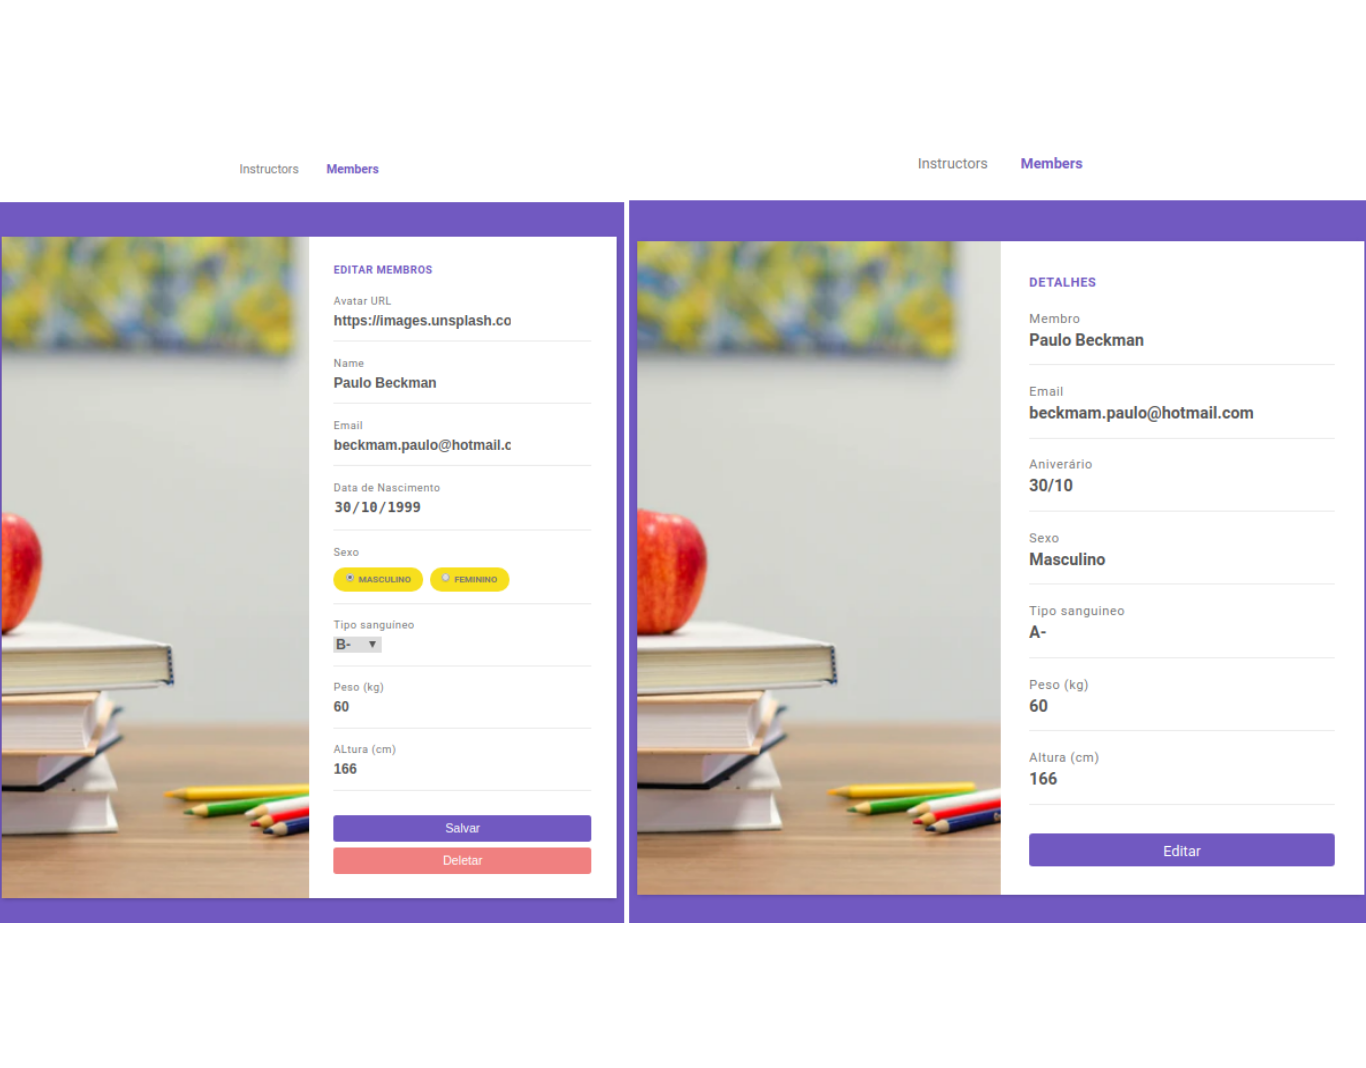
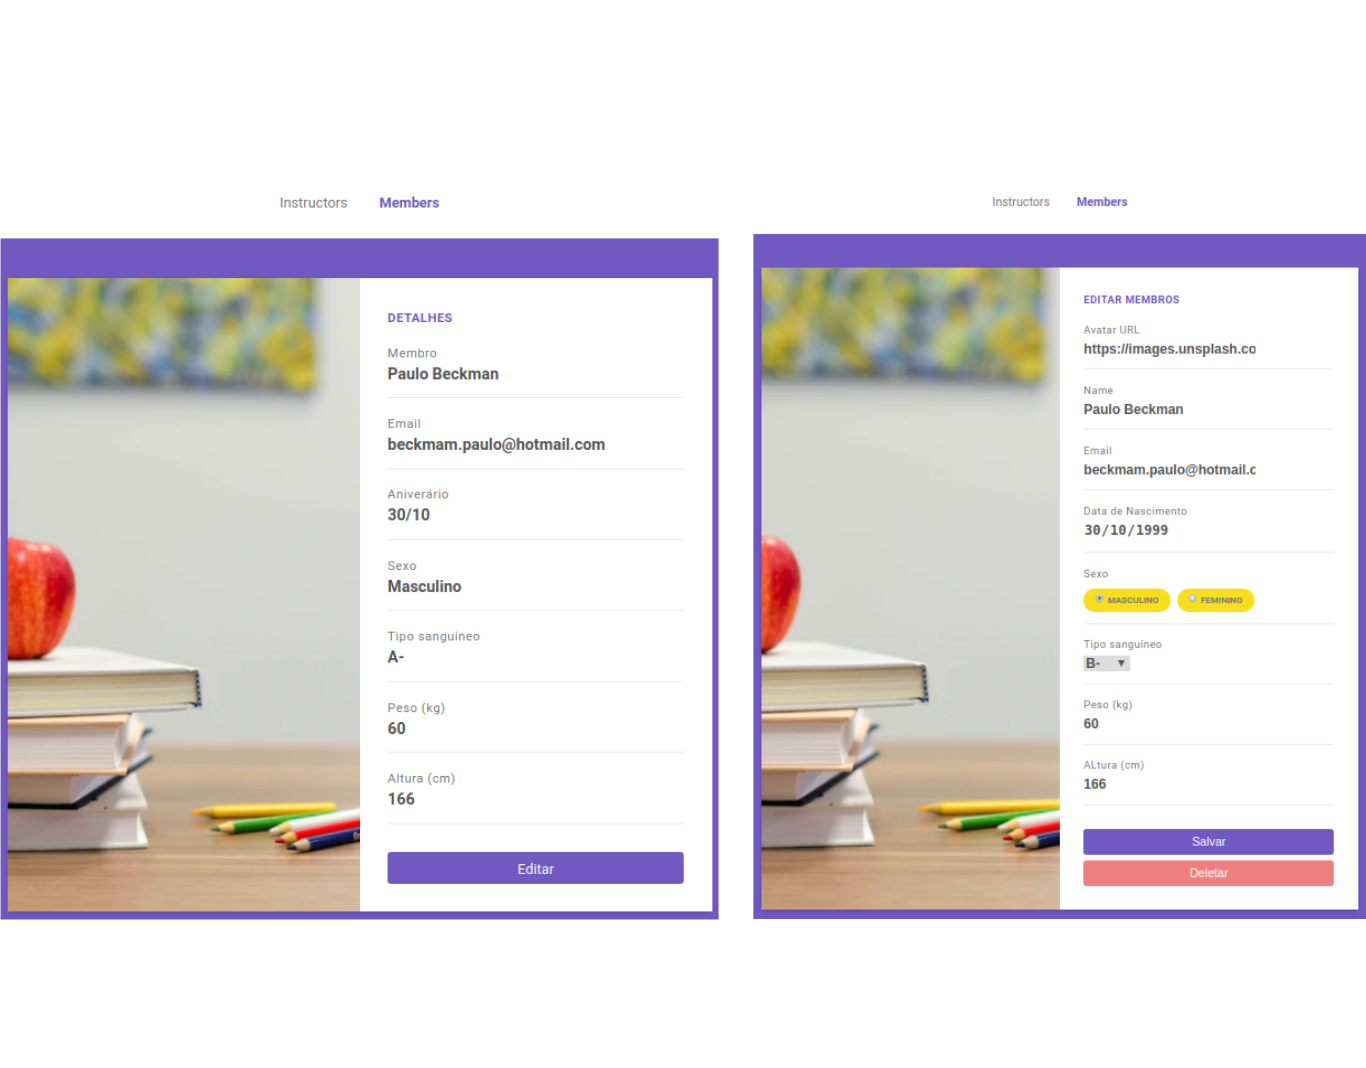
assets readme

diff --git a/utils.js b/utils.js
@@ -32,7 +32,7 @@ module.exports ={
             case("A1"): return "A+"
             case("A0"): return "A-"
             case("B1"): return "B+"
-            case("B0"): return "A-"
+            case("B0"): return "B-"
             case("AB1"): return "AB+"
             case("AB0"): return "AB-"
             case("B1"): return "B+"
